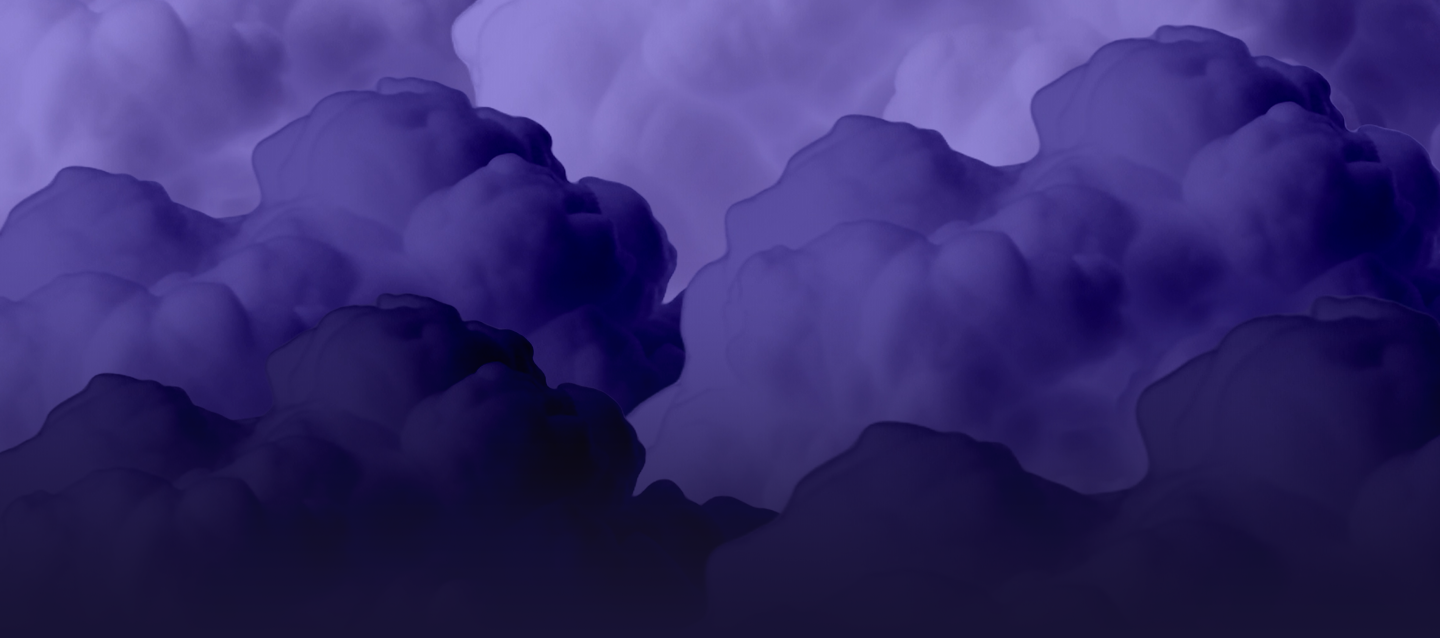
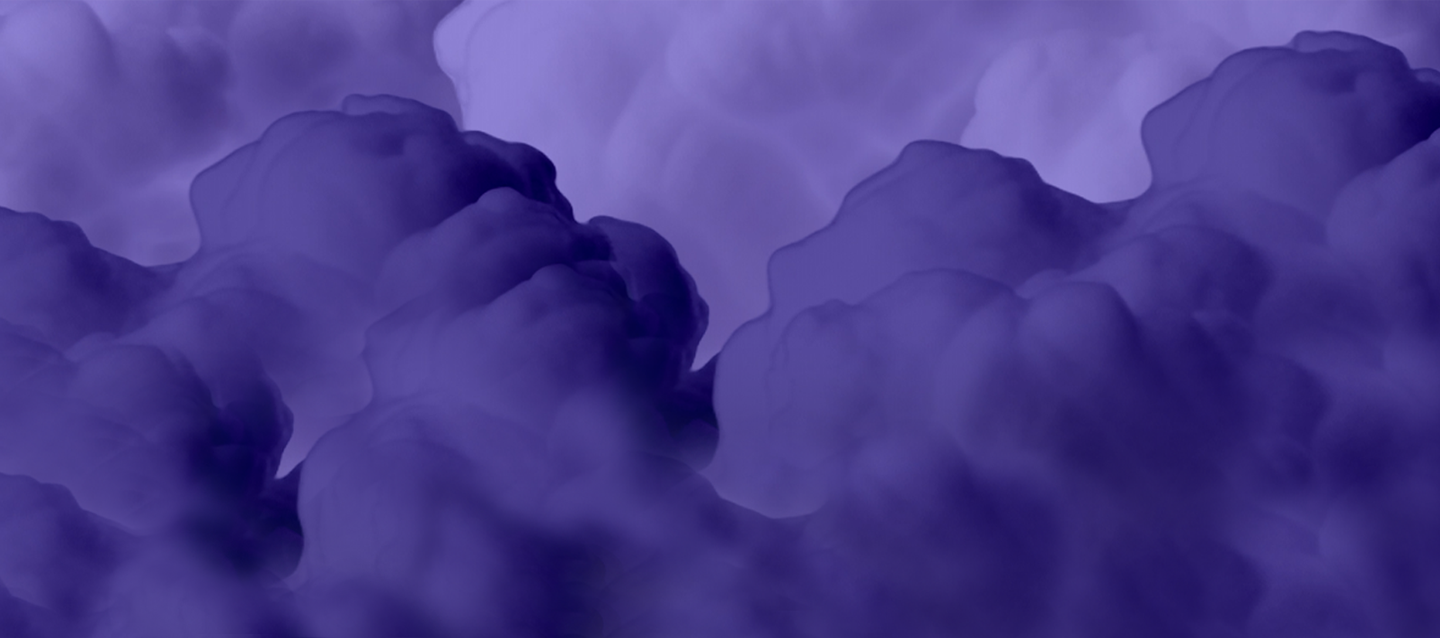
Modificata l'immagine base del parallasse

diff --git a/index.html b/index.html
@@ -188,8 +188,8 @@ ed è più corretto nella strutturazione del codice e aiuta poi a creare le rego
                                     <a class="small_copy" href="othania.html" title="Link alla pagina Othania">Esplora ></a>
                                 </div>
                                 <div class="col-12 pt-3 pt-lg-0">
-                                    <p>SerenityDreams Travel è nata nel 2013 da una forte passione per l'avventura e l’esplorazione di mondi mistici.
-                                        Scegli SerenityDreams Travel e immergiti nelle nostre radici di passione e scoperta.</p>
+                                    <p>Sei pronto ad esplorare paesaggi mozzafiato, ad incontrare creature uniche e
+                                        a scoprire una cultura avvincente che ti catapulterà in un'avventura senza precedenti? </p>
                                 </div>
                             </div>
                         </div>

diff --git a/liveYourFantasy.html b/liveYourFantasy.html
@@ -194,7 +194,7 @@
                 </div>
                 <div class="row my-5">
                     <div class="col-12 d-flex justify-content-center">
-                        <button type="submit">Invia</button>
+                        <button type="submit">Crea pacchetto</button>
                     </div>
                 </div>
             </form>

diff --git a/css/style.css b/css/style.css
@@ -110,7 +110,7 @@ body {
 /* ------------ HEADER ------------ */
 
 header{
-    background-image: url("../img/Clouds_base.png");
+    background-image: url("../img/Clouds_reduced.png");
     background-position: center bottom;
     background-size: cover;
     height: fit-content;
